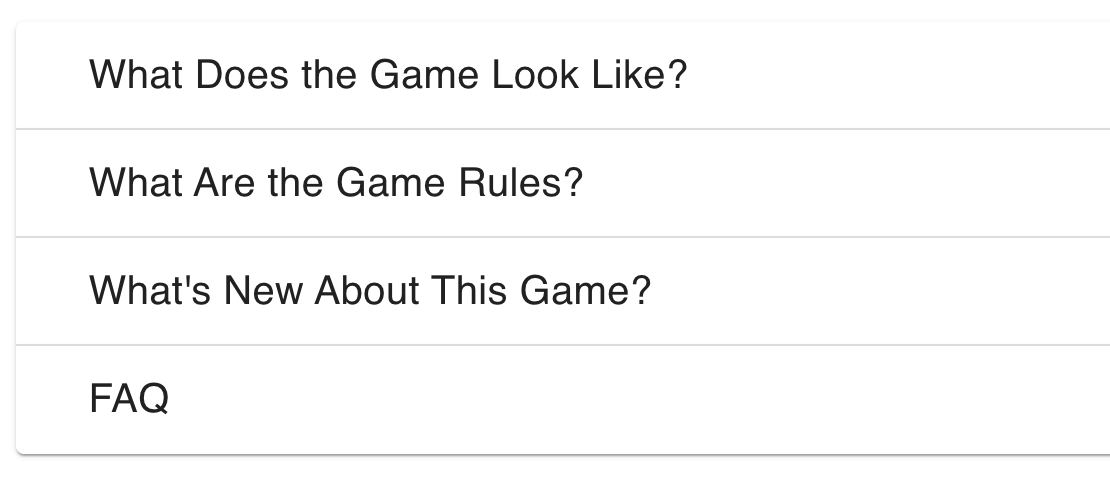
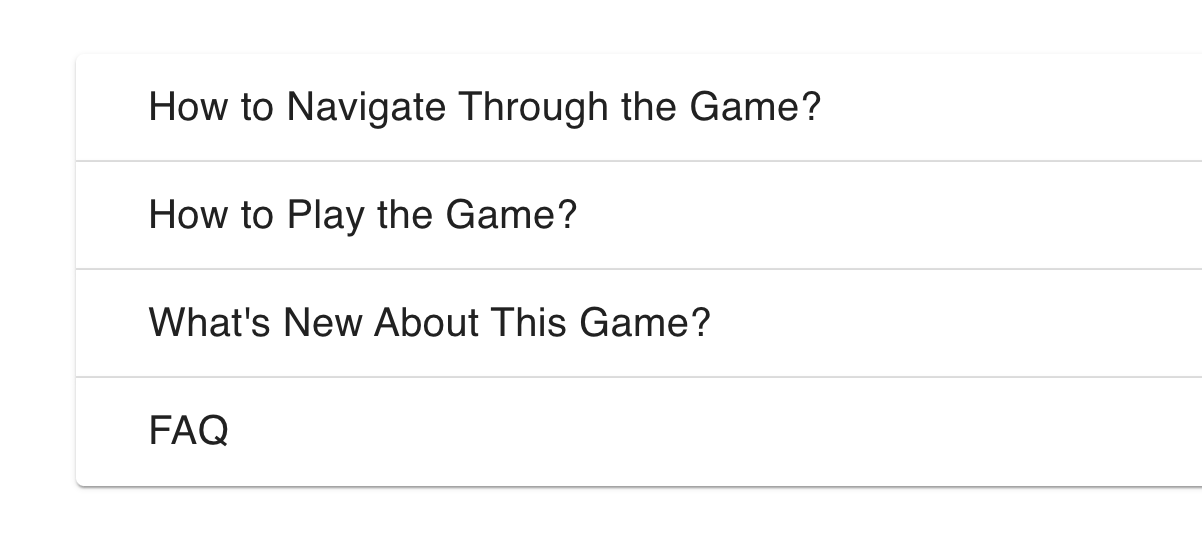
Help page is updated

diff --git a/client/src/pages/Help/Help.js b/client/src/pages/Help/Help.js
@@ -14,6 +14,7 @@ import teamLogo from "../../pages/Help/images/teamLogo.png";
 import homePage from "../../pages/Help/images/homePage.png";
 import adminPage from "../../pages/Help/images/adminPage.png";
 import helpPage from "../../pages/Help/images/helpPage.png";
+import gameBoard from "../../pages/Help/images/gameBoard.png";
 
 const Help = () => {
   const imageStyle = {
@@ -74,7 +75,7 @@ const Help = () => {
           <Accordion>
             <AccordionSummary>
               <Typography style={accordionHeader}>
-                What Does the Game Look Like?
+                How to Navigate Through the Game?
               </Typography>
             </AccordionSummary>
             <AccordionDetails>
@@ -146,7 +147,7 @@ const Help = () => {
           <Accordion>
             <AccordionSummary>
               <Typography style={accordionHeader}>
-                What Are the Game Rules?
+                How to Play the Game?
               </Typography>
             </AccordionSummary>
             <AccordionDetails>
@@ -178,6 +179,8 @@ const Help = () => {
                     answers the question correctly at the center hub.
                   </li>
                 </ul>
+                <p>The following picture illustrates the functional areas on the game board.</p>
+                <img alt="gameBoard" src={gameBoard}  style={{width: "80%", height: "70%"}}/>
               </Typography>
             </AccordionDetails>
           </Accordion>
@@ -233,7 +236,7 @@ const Help = () => {
                   <li>How can I play the game?</li>
                   <p>
                     This game by large is similar to the traditional board game,
-                    Trivial Pursuit. Please refer to the Game Rules section for
+                    Trivial Pursuit. Please refer to the How Can I Play section for
                     more detailed rules.
                   </p>
                   <li>What should I do if the game encountered an error?</li>
